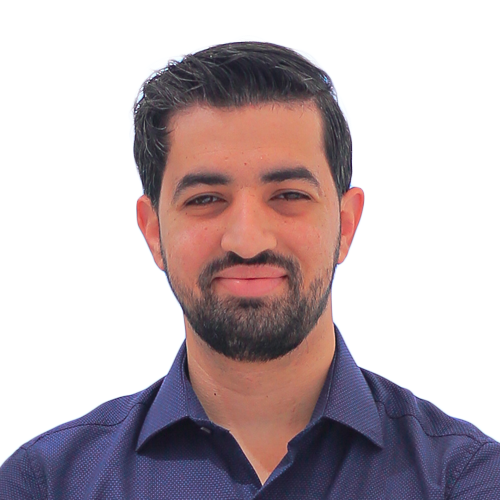
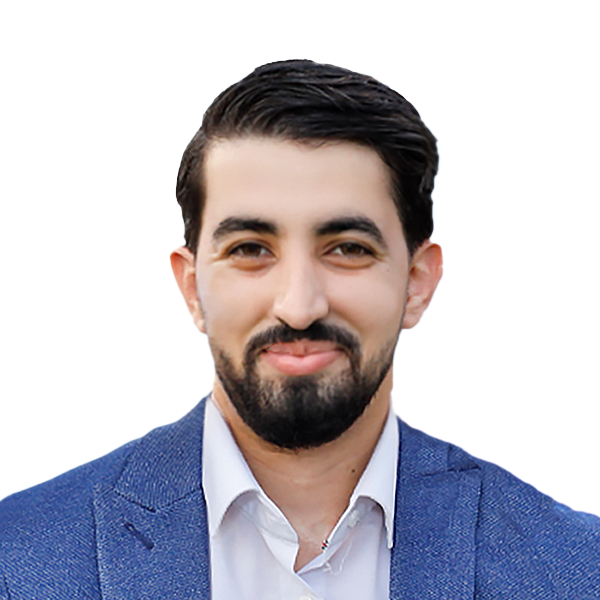
update image and fix size

diff --git a/index.html b/index.html
@@ -93,7 +93,7 @@
       </div>
       <div class="home-img">
         <div class="img-box">
-          <img src="img/profile-img.jpg">
+          <img src="img/profile-img.png">
         </div>
       </div>
     </div>
@@ -201,7 +201,7 @@
         <!--- Portfoilo Item Start -->
         <div class="portfoilo-item all web">
           <div class="portfoilo-item-thumbnail">
-            <img src="img/portfolio/MFILMLAB.png">
+            <img src="img/portfolio/MFILMLAB.png" style="width: 340px;">
           </div>
           <h3 class="portfoilo-item-title">The M Film Lab</h3>
           <button type="button" class="btn view-project-btn">view project</button>
